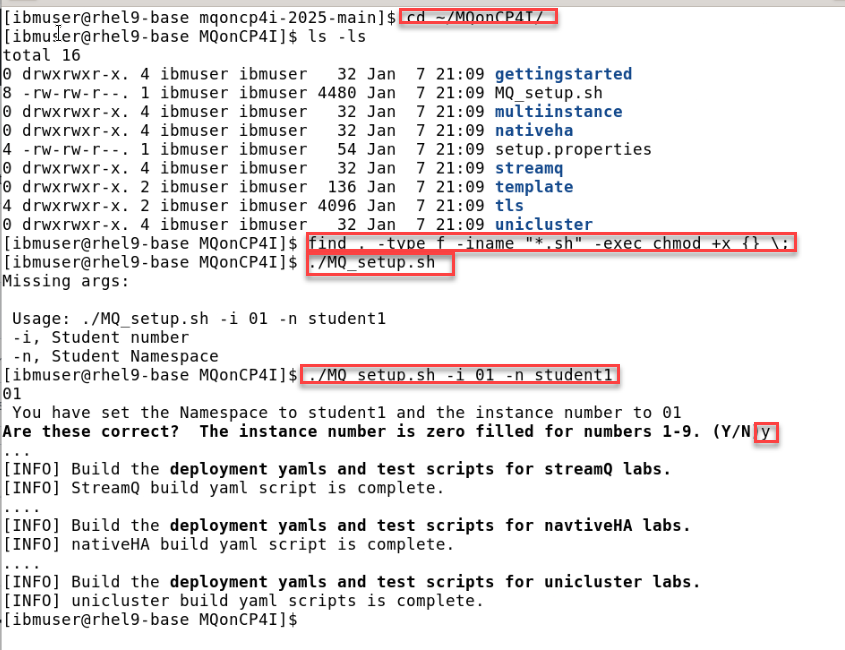
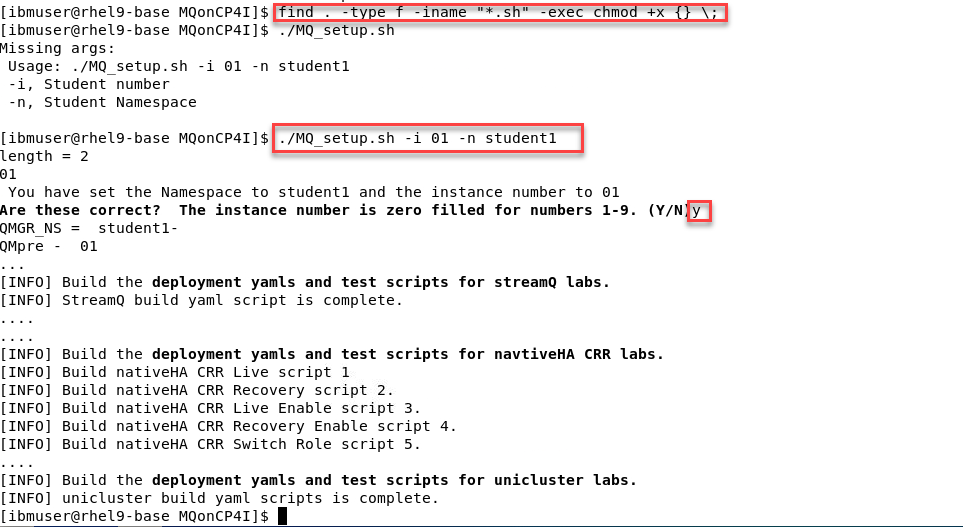
Update the MQ Setup steps

Changed region(s): [[0.0, 0.0, 1.0, 1.0]]

diff --git a/MQ/Msg-Pre-lab/mqsetup/mq_setup_steps.md b/MQ/Msg-Pre-lab/mqsetup/mq_setup_steps.md
@@ -51,15 +51,32 @@ You should be logged on your VDI as *ibmuser*.
 	cd ~/MQonCP4I
 	ls -l 
 	```
-1. Now first we will need to change the mode to executable for all the scripts.   From the MQonCP4I directory run the following command.
+1. Now first we will need to update the setup.properties file with cluster info so that the scripts will be able to login to the correct clusters. 
+Enter the following command to edit file.
+
+	```
+	gedit setup.properties
+	```
+
+	![](./images/setup-mq114c.png)
+
+	1. Update *OCP Cluster 1* with the primary cluster URL.  
+	
+		If you are going to do the MQ NativeHA CRR labs you will have a second cluster so update the *OCP Cluster 2* with that cluster URL.     
+
+	1. 	Update the OCP CLUSTER USER and PASSWORD with the ones provide to you.  This will be the same for both clusters. 
+
+	1. Select **Save**   
+
+1. Now we will need to change the mode to executable for all the scripts.  From the MQonCP4I directory run the following command.
 
 	```
 	find . -type f -iname "*.sh" -exec chmod +x {} \;
 	```
 
-	1. Now we will run the script that will create all the install scripts for your userid. ```./MQ_setup.sh```  
+1. Now we will run the script that will create all the install scripts for your userid. ```./MQ_setup.sh```  
 
-	1. 	Now run the MQ_setup.sh You will use your student id that was given to you from the instructor.
+	1. 	When you run the MQ_setup.sh You will use your student id that was given to you from the instructor.
 
 		**Note:** In this example we are user student1 so would use that as the namespace and 01 as the student id.
 	1. If will ask if this is correct.  enter **Y**
